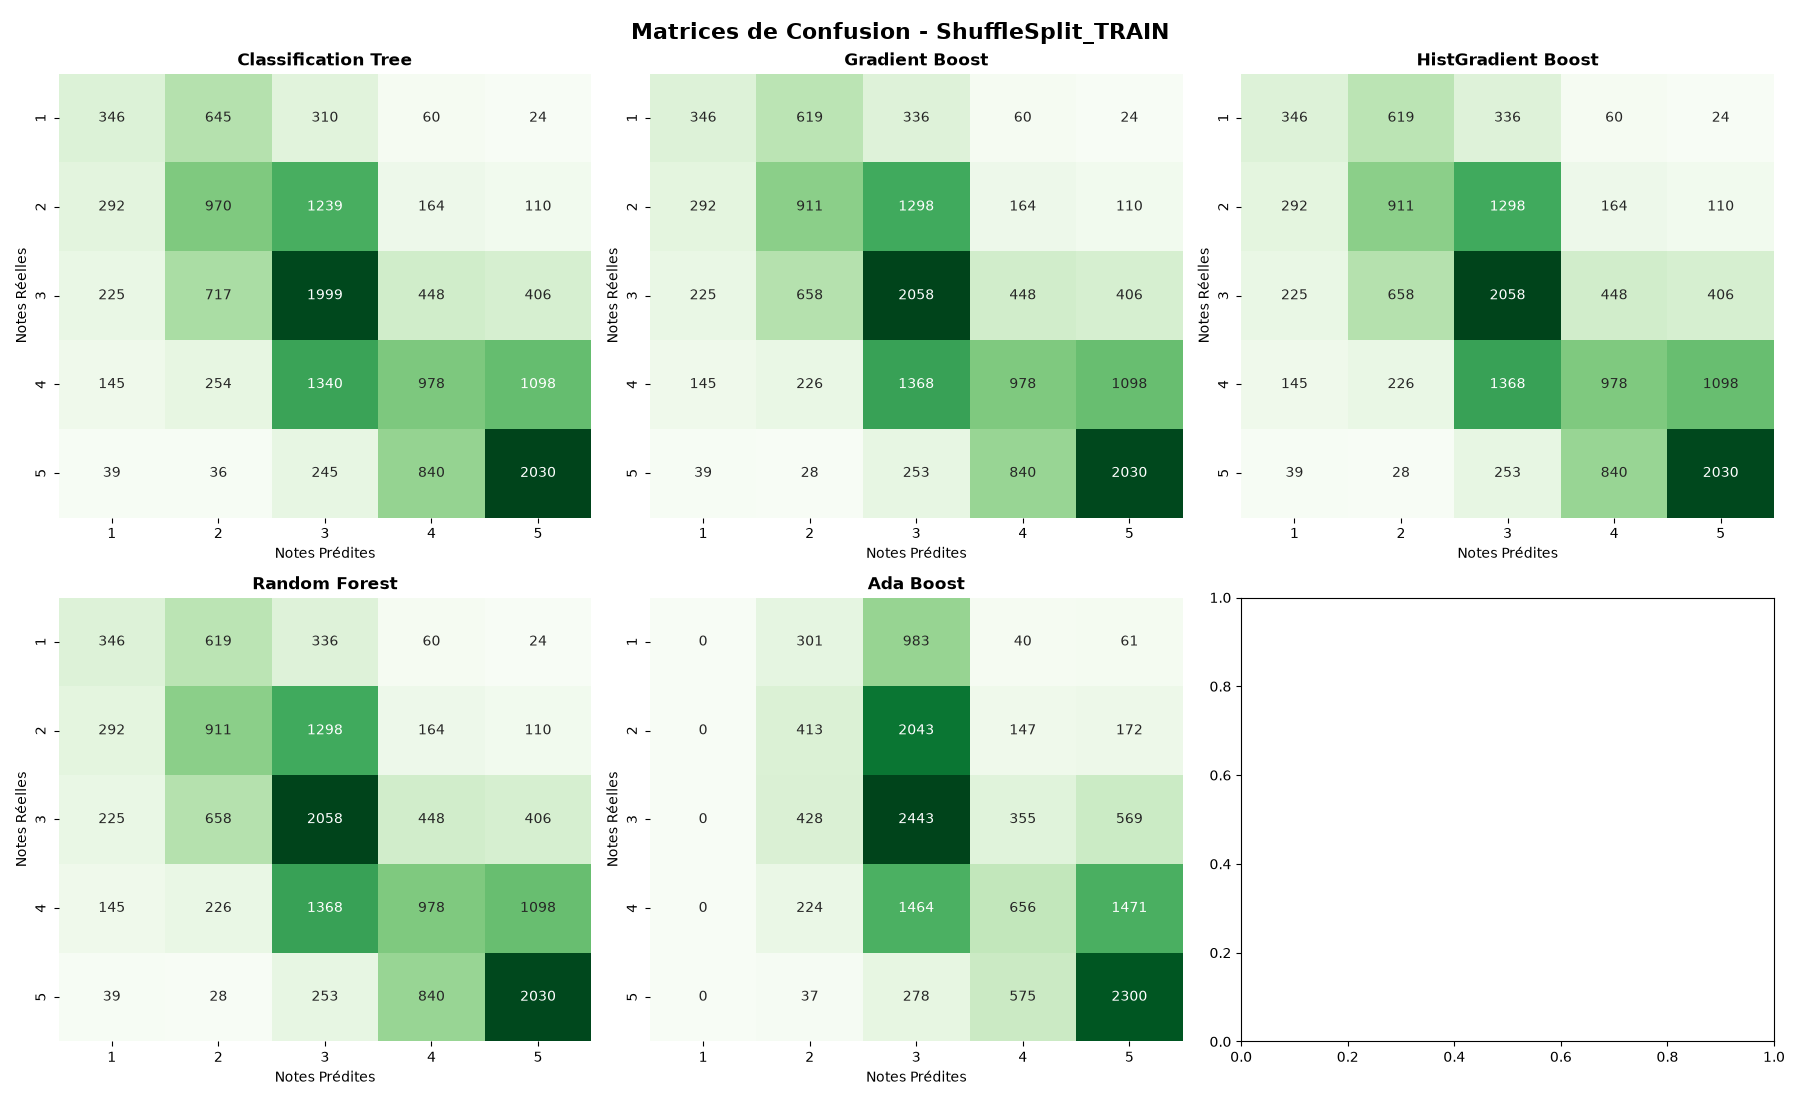
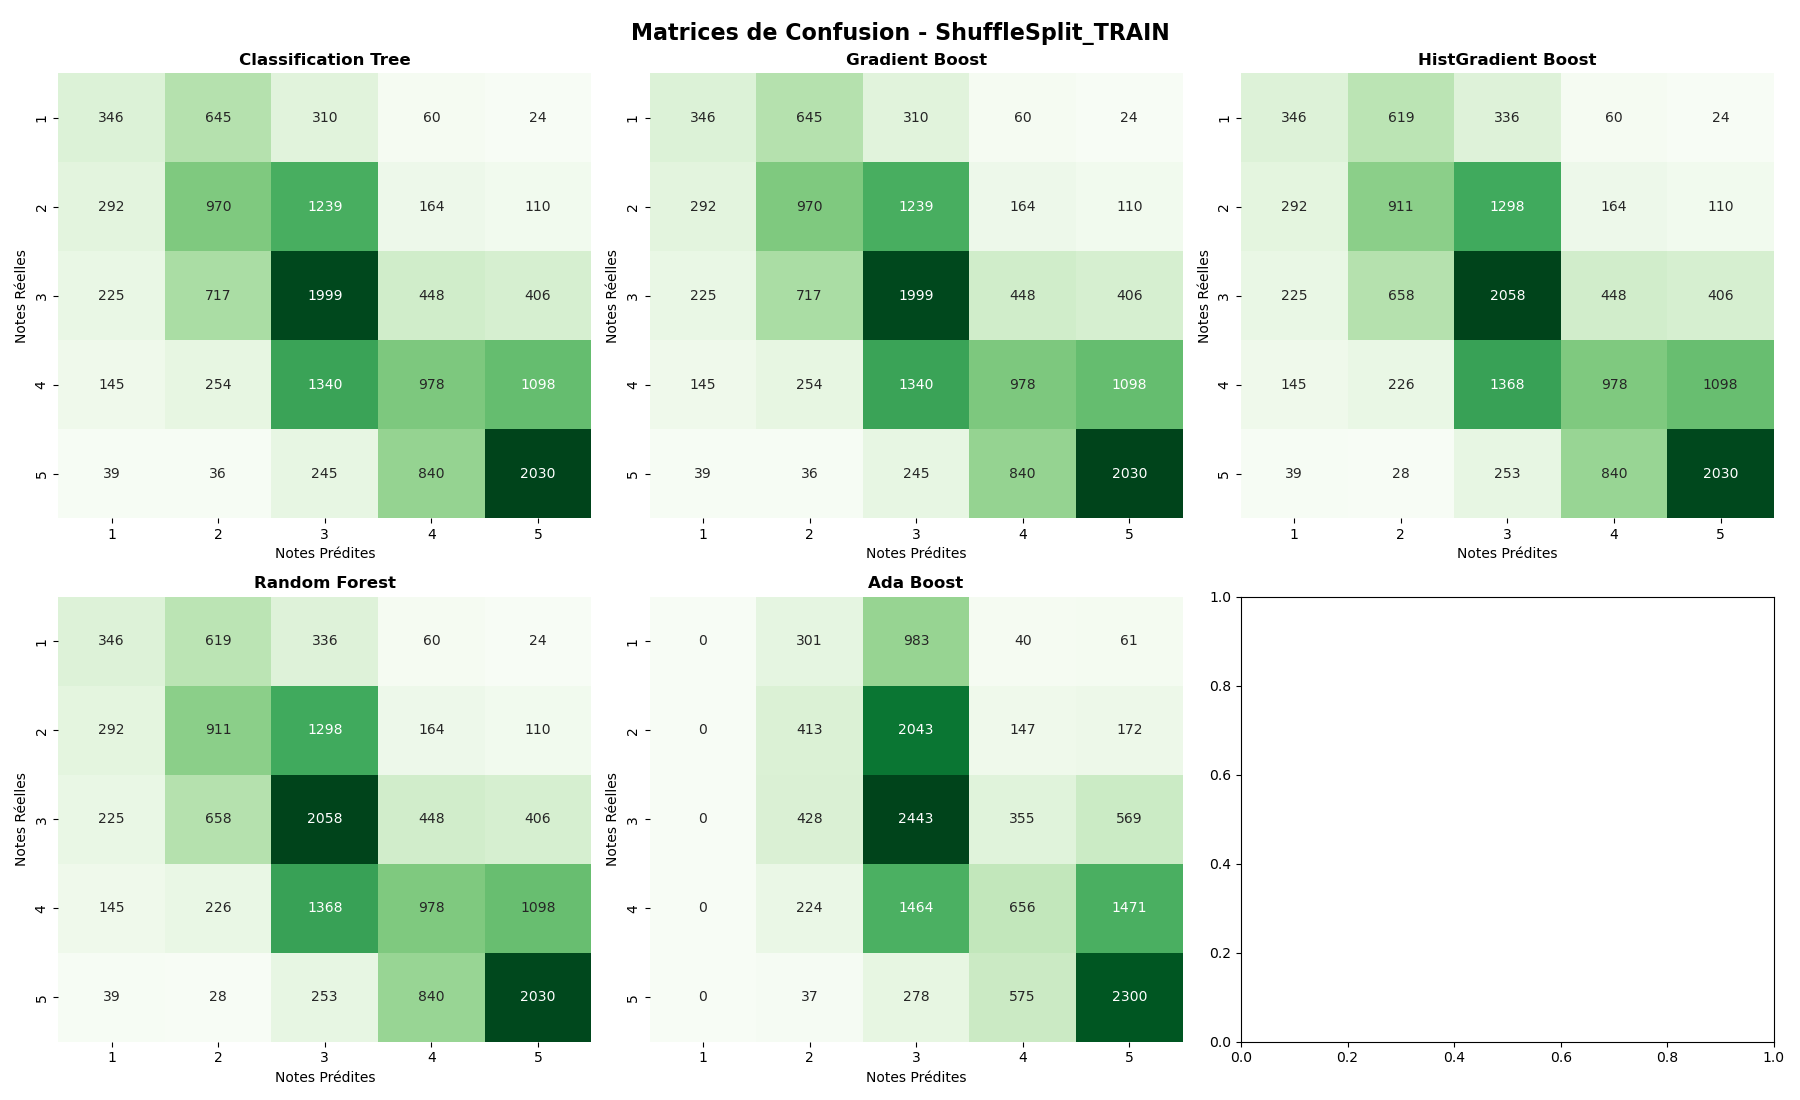
samll change to esport train and test score after K-folds

diff --git a/utils_benchmark.py b/utils_benchmark.py
@@ -82,6 +82,7 @@ def run_train_test(models, X, y, test_size=0.2, random_state=42):
 
     return pd.DataFrame(results).T, dict_preds_train, y_train, dict_preds_test, y_test
 
+
 def run_shufflesplit(models, X, y, n_splits=5, test_size=0.2, random_state=42):
     cv = StratifiedShuffleSplit(n_splits=n_splits, test_size=test_size, random_state=random_state)
     results = {}
@@ -113,7 +114,19 @@ def run_shufflesplit(models, X, y, n_splits=5, test_size=0.2, random_state=42):
 
             all_train_preds.extend(train_pred)
             all_test_preds.extend(test_pred)
-            fold_metrics.append(get_metrics(y_test, test_pred))
+
+            # Calcul des metriques d'entrainement et de test pour le fold actuel
+            train_metrics = get_metrics(y_train, train_pred)
+            test_metrics = get_metrics(y_test, test_pred)
+
+            # Combinaison des metriques avec des prefixes clairs
+            combined_metrics = {}
+            for k, v in train_metrics.items():
+                combined_metrics[f'Train {k}'] = v
+            for k, v in test_metrics.items():
+                combined_metrics[f'Test {k}'] = v
+
+            fold_metrics.append(combined_metrics)
 
         df_folds = pd.DataFrame(fold_metrics)
         results[name] = df_folds.mean().to_dict()
@@ -171,7 +184,12 @@ def load_and_prepare_data(base_csv, personnes_csv, photos_csv):
 def get_models():
     return {
         "Classification Tree": DecisionTreeClassifier(random_state=42),
-        "Gradient Boost": GradientBoostingClassifier(random_state=42),
+        "Gradient Boost": GradientBoostingClassifier(random_state=42, learning_rate=0.2,
+                                                     max_depth=5,
+                                                     min_samples_split=2,
+                                                     min_samples_leaf=1,
+                                                     n_estimators=500,
+                                                     subsample=0.8),
         "HistGradient Boost": HistGradientBoostingClassifier(random_state=42),
         "Random Forest": RandomForestClassifier(random_state=42),
         "Ada Boost": AdaBoostClassifier(random_state=42)

diff --git a/script_benchmark.py b/script_benchmark.py
@@ -14,7 +14,6 @@ photos_csv = "data/survey/data-photos.csv"
 
 def main():
 
-
     X, y = load_and_prepare_data(base_csv, personnes_csv, photos_csv)
     models = (get_models())
     name = ""
@@ -40,14 +39,14 @@ def main():
     plot_confusion_matrices(y_test_ss, preds_test_ss, title_suffix=f"ShuffleSplit_TEST{name}", save=True)
     print("\n")
 
-    # # 3. LEAVEONE OUT (LOO)
-    # print("--- Benchmark : Leave-One-Out (LOO) ---")
-    # df_loo, preds_train_loo, y_train_loo, preds_test_loo, y_loo = run_loo(models, X, y)
-    # print(df_loo.to_string())
-    # df_loo.to_csv(os.path.join(output_dir, f"results_loo{name}.csv"))
-    #
-    # plot_confusion_matrices(y_train_loo, preds_train_loo, title_suffix=f"LOO_TRAIN{name}", save=True)
-    # plot_confusion_matrices(y_loo, preds_test_loo, title_suffix=f"LOO_TEST{name}", save=True)
+    # 3. LEAVEONE OUT (LOO)
+    print("--- Benchmark : Leave-One-Out (LOO) ---")
+    df_loo, preds_train_loo, y_train_loo, preds_test_loo, y_loo = run_loo(models, X, y)
+    print(df_loo.to_string())
+    df_loo.to_csv(os.path.join(output_dir, f"results_loo{name}.csv"))
+
+    plot_confusion_matrices(y_train_loo, preds_train_loo, title_suffix=f"LOO_TRAIN{name}", save=True)
+    plot_confusion_matrices(y_loo, preds_test_loo, title_suffix=f"LOO_TEST{name}", save=True)
 
 
 
